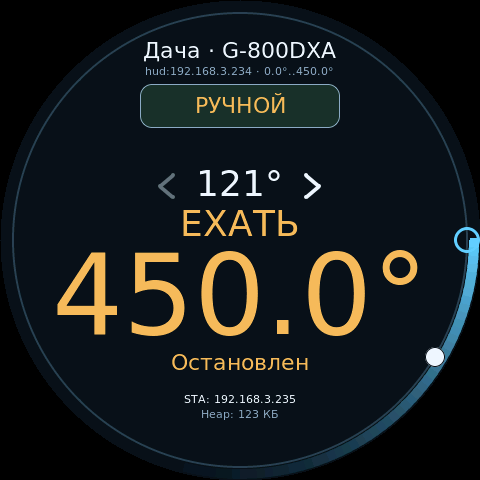
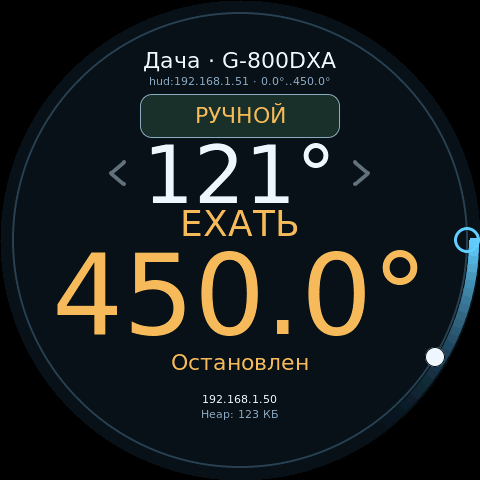
fix(display): refine panel controls and refresh interface previews
Narrow and raise STOP, lower the full-panel header, and trim the inner
edge of the target touch ring. Refresh all 17 display and web previews.

Validated panel input/STOP tests, LVGL previews, CrowPanel build,
Chromium captures at 390/1100 px, and documentation links.

diff --git a/G5500_Fork/panel_ui.cpp b/G5500_Fork/panel_ui.cpp
@@ -285,16 +285,20 @@ void PanelUi::create(bool round) {
   lv_obj_set_scrollable(limits_, false);
   lv_obj_set_clickable(limits_, false);
   lv_obj_add_event_cb(limits_, drawLimits, LV_EVENT_DRAW_MAIN, this);
-  hudName_ = label(panel::HudNameButton.y, 230, 22, text);
+  // Smaller panels reserve this space for jog arrows and pending targets.
+  const int headerOffset = diameter_ >= 480 ? 10 : 0;
+  hudName_ = label(panel::HudNameButton.y + headerOffset, 230, 22, text);
   lv_label_set_long_mode(hudName_, LV_LABEL_LONG_DOT);
   lv_obj_set_height(hudName_,face(22)->line_height);
   lv_obj_set_hidden(hudName_, true);
-  hudAddress_ = label(65, 340, 11, muted);
+  hudAddress_ = label(65 + headerOffset, 340, 11, muted);
   lv_obj_set_hidden(hudAddress_, true);
-  modeButton_ = button(panel::ModeButton, 0x183329);
+  auto modeRect = panel::ModeButton;
+  modeRect.y += headerOffset;
+  modeButton_ = button(modeRect, 0x183329);
   mode_ = buttonLabel(modeButton_,face(22));
-  range_ = label(65, 300, 11, muted);
-  axis_ = label(132, 320, 22, muted);
+  range_ = label(65 + headerOffset, 300, 11, muted);
+  axis_ = label(132 + headerOffset, 320, 22, muted);
   angle_ = label(170, LV_SIZE_CONTENT, 112, text);
   secondaryAngle_ = label(170, LV_SIZE_CONTENT, 28, text);
   secondaryTarget_ = label(282, LV_SIZE_CONTENT, 22, targetColor);
@@ -341,7 +345,7 @@ void PanelUi::create(bool round) {
   currentMotion_.object = currentMarker_; currentMotion_.size = p(currentMarkerSize);currentMotion_.owner=this;
   targetMotion_.object = targetMarker_; targetMotion_.size = p(targetMarkerSize);targetMotion_.owner=this;
   hudList_ = lv_obj_create(screen);
-  lv_obj_set_pos(hudList_, x(panel::HudList.x), y(panel::HudList.y));
+  lv_obj_set_pos(hudList_, x(panel::HudList.x), y(panel::HudList.y + headerOffset));
   lv_obj_set_size(hudList_, p(panel::HudList.width), p(panel::HudList.height));
   lv_obj_set_style_bg_color(hudList_, lv_color_hex(0x101e2b), 0);
   lv_obj_set_style_bg_opa(hudList_, LV_OPA_COVER, 0);
@@ -502,8 +506,8 @@ void PanelUi::configureLayout(const PanelView &v) {
   lv_obj_set_hidden(axis_,!v.shows(DisplayAxis));
   lv_obj_set_hidden(actionButton_,!showStop);
   if(v.speedScreen) {
-    lv_obj_set_pos(actionButton_,x(250),y(374));
-    lv_obj_set_size(actionButton_,p(130),std::max(28,p(44)));
+    lv_obj_set_pos(actionButton_,x(250),y(371));
+    lv_obj_set_size(actionButton_,p(81),std::max(28,p(44)));
     font(actionLabel_,face(22));
   } else {
     // The footer button replaces status and telemetry, leaving the goal and
@@ -527,7 +531,8 @@ void PanelUi::configureLayout(const PanelView &v) {
       const int dy=std::max(std::abs(top-height_/2),std::abs(bottom-height_/2));
       buttonWidth=std::min(buttonWidth,2*int(std::sqrt(std::max(0,radius*radius-dy*dy))));
     }
-    lv_obj_set_pos(actionButton_,(width_-buttonWidth)/2,top);
+    buttonWidth=(buttonWidth*9+5)/10;
+    lv_obj_set_pos(actionButton_,(width_-buttonWidth)/2,top-p(3));
     lv_obj_set_size(actionButton_,buttonWidth,bottom-top);
     for(const auto *candidate:{compact?face(36):&panel_font_28,compact?face(28):face(22),face(11)}) {
       if(candidate->line_height+gap<=bottom-top) {font(actionLabel_,candidate);break;}
@@ -555,7 +560,7 @@ void PanelUi::configureLayout(const PanelView &v) {
   touchLayout_.speedBack=bounds(speedBack_);
   touchLayout_.centerX=width_/2;touchLayout_.centerY=height_/2;
   touchLayout_.width=width_;touchLayout_.height=height_;
-  touchLayout_.innerRadius=p(140);touchLayout_.outerRadius=p(240)+panel::DialTouchExtension;
+  touchLayout_.innerRadius=p(panel::DialTouchInner);touchLayout_.outerRadius=p(panel::DialTouchOuter)+panel::DialTouchExtension;
   touchLayout_.swipeDeadzone=std::max(6,p(12));touchLayout_.swipeFull=std::max(50,p(100));
   touchLayout_.enabled=touchLayout_.enabled && v.enabled;
   confirmationCaption_=bounds(targetCaption_,p(8));confirmationAngle_=bounds(target_,p(8));

diff --git a/tests/crowpanel_tests.cpp b/tests/crowpanel_tests.cpp
@@ -42,8 +42,8 @@ int main() {
   assert(buttons.sample(true, 240, 106) == TouchAction::None); // Must start inside button.
   buttons.sample(false, 0, 0);
   // Broad annulus, compass bearings, one command per contact, no slide-in commands.
-  assert(crowpanel::dialContains(380, 240) && crowpanel::dialContains(479, 240));
-  assert(!crowpanel::dialContains(379, 240) && !crowpanel::dialContains(0, 0));
+  assert(crowpanel::dialContains(390, 240) && crowpanel::dialContains(479, 240));
+  assert(!crowpanel::dialContains(389, 240) && !crowpanel::dialContains(0, 0));
   assert(!crowpanel::dialContains(65535, 65535));
   assert(crowpanel::dialBearing(240, 13) == 0 && crowpanel::dialBearing(467, 240) == 90);
   assert(crowpanel::dialBearing(240, 467) == 180 && crowpanel::dialBearing(13, 240) == 270);

diff --git a/G5500_Fork/panel_input.hpp b/G5500_Fork/panel_input.hpp
@@ -15,7 +15,8 @@ inline constexpr TouchRect HudNameButton{70, 38, 340, 28};
 inline constexpr TouchRect ModeButton{140, 84, 200, 44};
 inline constexpr TouchRect HudList{35, 129, 410, 185};
 inline constexpr int HudRowTop = HudList.y + 10, HudRowHeight = 58;
-inline constexpr int DialCenter = 240, DialTouchInner = 140, DialTouchOuter = 240;
+// Trim 10% of the original 100-pixel touch band from its inner edge.
+inline constexpr int DialCenter = 240, DialTouchInner = 150, DialTouchOuter = 240;
 inline constexpr int DialTouchExtension = 50;
 inline bool dialContains(uint16_t x, uint16_t y) {
   if (x >= 480 || y >= 480) return false;
